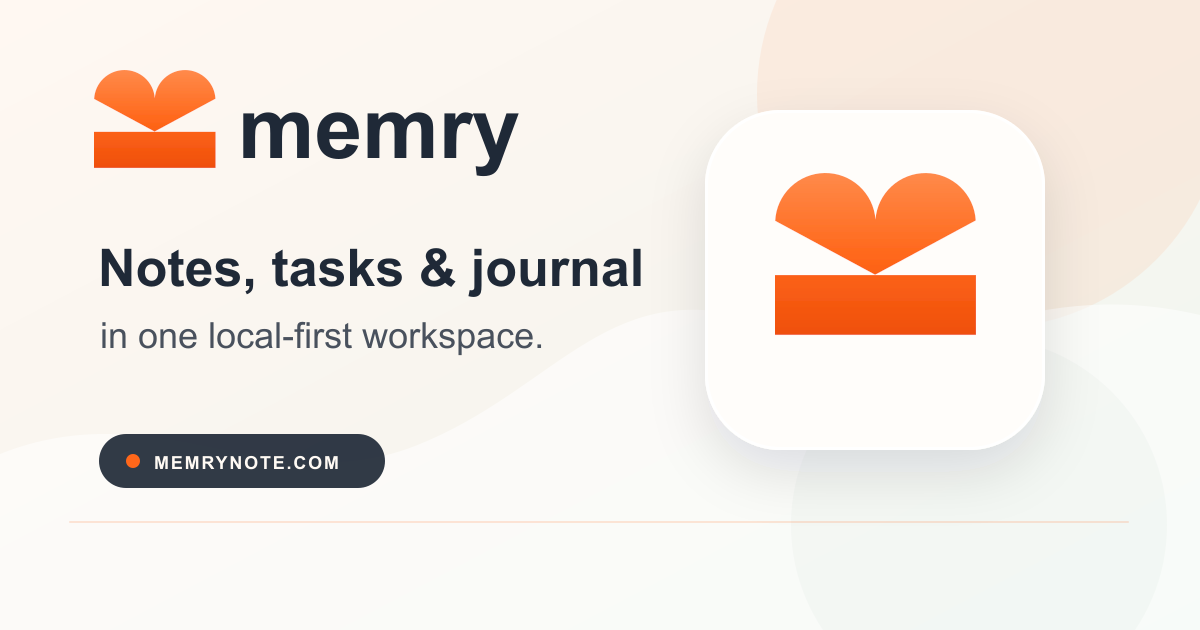
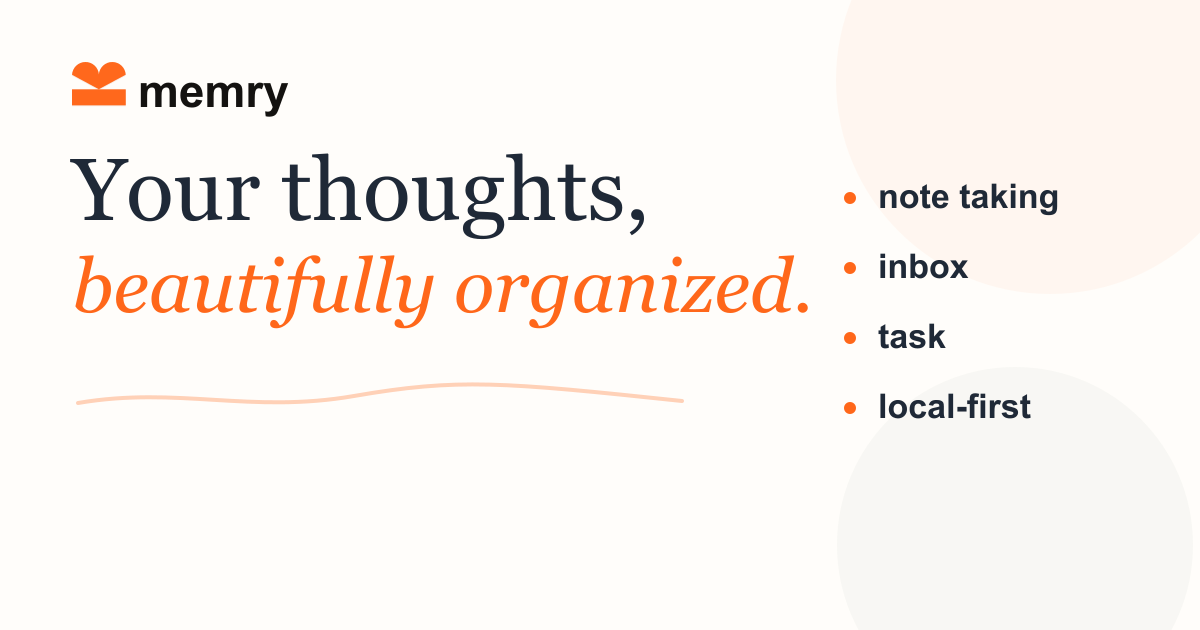
Refine landing social preview layout

diff --git a/apps/landing/index.html b/apps/landing/index.html
@@ -29,7 +29,7 @@
     <meta property="og:image:height" content="630" />
     <meta
       property="og:image:alt"
-      content="memry logo with notes, tasks, and journal in one local-first workspace."
+      content="memry social preview with the headline Your thoughts, beautifully organized."
     />
     <meta property="og:site_name" content="Memry" />
 
@@ -44,7 +44,7 @@
     <meta name="twitter:image" content="https://memrynote.com/og-image.png" />
     <meta
       name="twitter:image:alt"
-      content="memry logo with notes, tasks, and journal in one local-first workspace."
+      content="memry social preview with the headline Your thoughts, beautifully organized."
     />
 
     <link rel="preconnect" href="https://fonts.googleapis.com" />

diff --git a/apps/landing/src/lib/seo.ts b/apps/landing/src/lib/seo.ts
@@ -6,7 +6,7 @@ export const SOCIAL_IMAGE_URL = `${BASE_URL}${SOCIAL_IMAGE_PATH}`
 export const SOCIAL_IMAGE_WIDTH = '1200'
 export const SOCIAL_IMAGE_HEIGHT = '630'
 export const SOCIAL_IMAGE_ALT =
-  'memry logo with notes, tasks, and journal in one local-first workspace.'
+  'memry social preview with the headline Your thoughts, beautifully organized.'
 
 interface PageMeta {
   title: string
